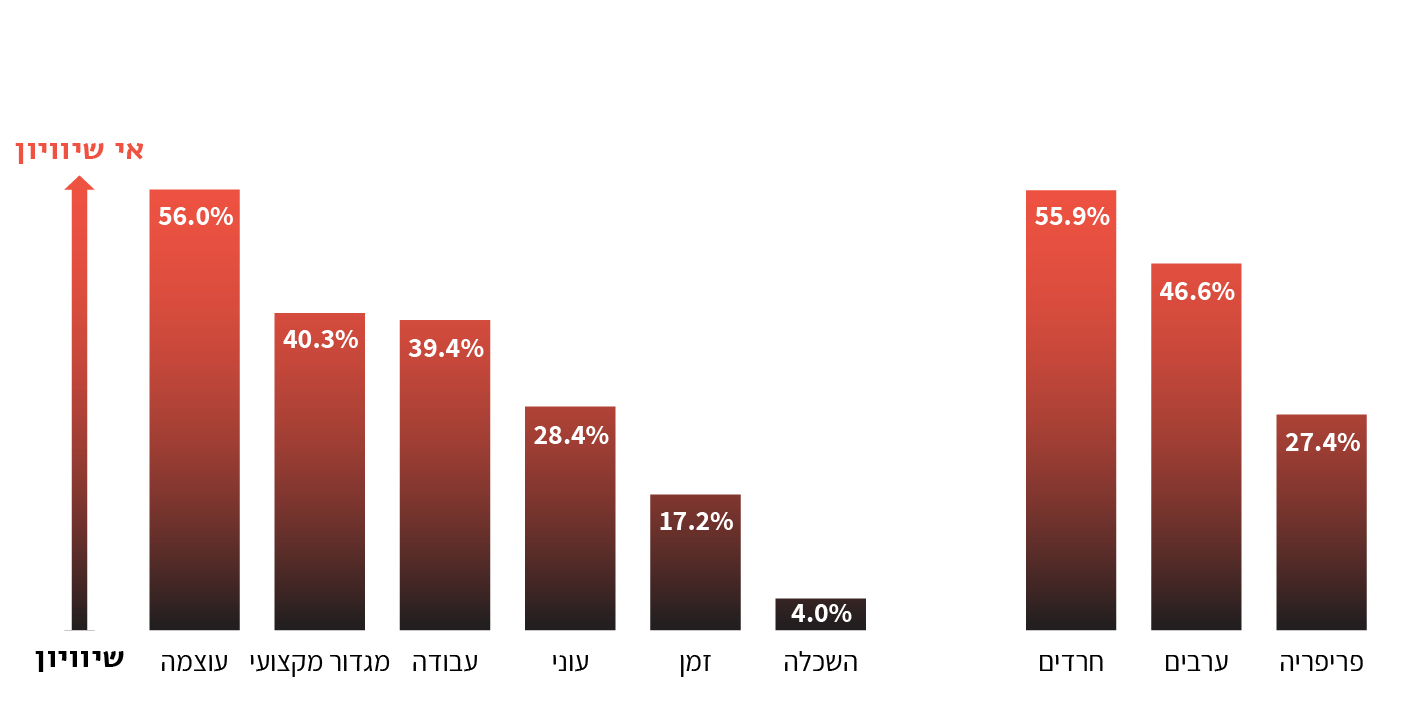
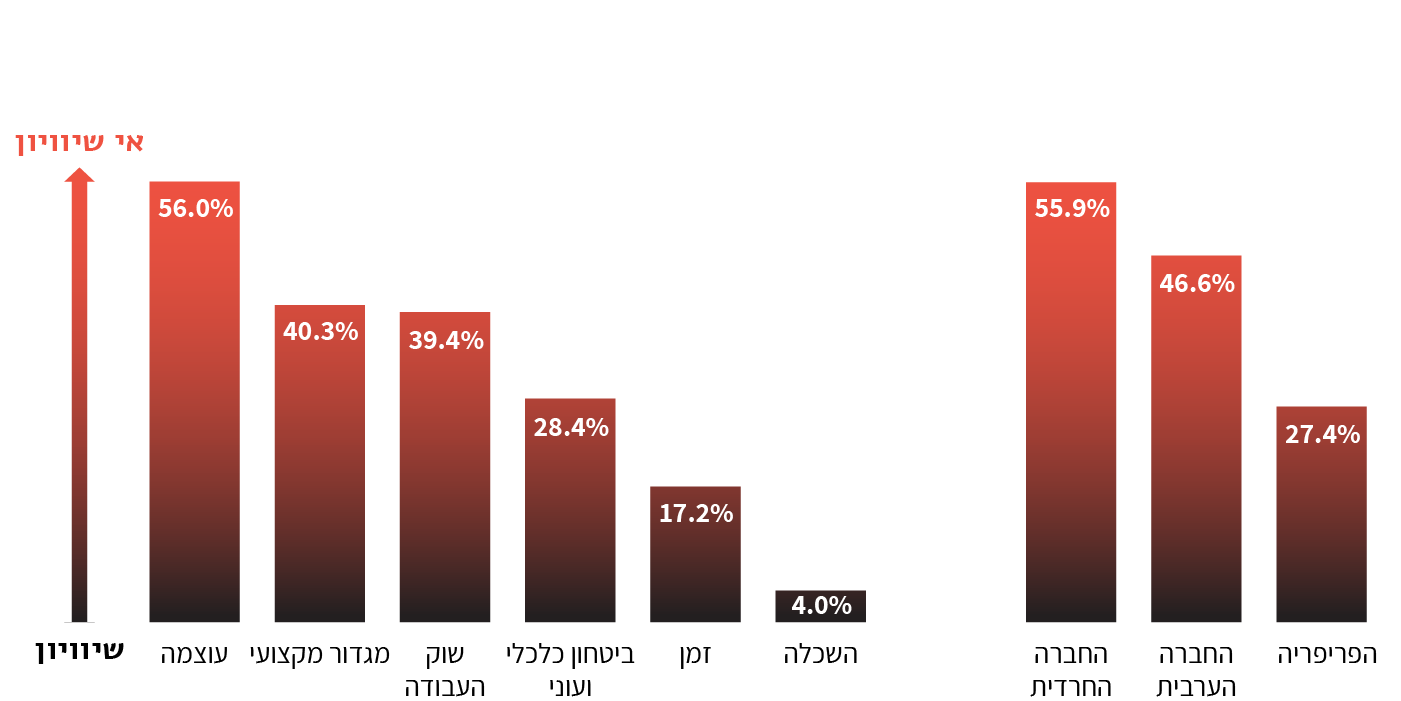
Gneder index graph fix

diff --git a/src/app/info-page-gaps/info-page-gaps.component.html b/src/app/info-page-gaps/info-page-gaps.component.html
@@ -18,7 +18,7 @@
   <p i18n>
 שני התרשימים להלן מציגים שני חישובים שונים של עומק האי-שוויון: בתרשים הראשון מוצג עומק האי-שוויון של הממדים השונים. ניתן לראות שבממדי העוצמה והמגדור המקצועי האי-שוויון בין נשים לגברים הוא העמוק ביותר, ובממדי ההשכלה והזמן אי השוויון הוא הנמוך ביותר.
   </p>
-  <img src='assets/gender_index_graphs/methodology/פערים בחברה@2x.png'/>
+  <img src='assets/gender_index_graphs/methodology/פערים בחברה_1@2x.png'/>
   <p i18n>
 בתרשים השני מוצגים שינויים לאורך זמן בעומק האי-שוויון, בכלל האינדיקטורים הנכללים באומדן. כפי שמראה התרשים, עומק האי שוויון ב-2004, שנת תחילת המדידה, היה 75%. האי-שוויון העמוק ביותר נמדד ב-2007 (79%), ובשנים שלאחר מכן חלה ירידה הדרגתית עד ל-68% בשנת 2010. בשנת 2011 שוב העמיק האי-שוויון עד לשיעור של 75%. בשנת 2012 חל שיפור ומאז עומק האי-שוויון נע בין 65% ל-66%. בשנת 2016 חל שיפור נוסף ועומק האי-שוויון ירד ל-60%. הירידה שחלה בעומק האי-שוויון בשנים האחרונות נובעת בעיקר משינויים בשלושה ממדים: ההשכלה, העוני והעוצמה (בעיקר עוצמה פוליטית). בחברה הערבית (שבה נמדד עומק האי-שוויון בנפרד), שבה האי-שוויון הוא הגבוה ביותר, ניכרת מגמה של צמצום פערים, אם כי הפערים המגדריים בה גבוהים הרבה יותר מהפערים בכלל החברה הישראלית. פערי המגדר בממד העוני הצטמצמו בעקבות הרעה במצבם הכללי של העשירונים הבינוניים והנמוכים באוכלוסייה. צמצום הפערים המגדריים בממד העוצמה הפוליטית נובע מהגידול במספר הנשים שנבחרו כחברות כנסת בבחירות שנערכו ב-2013 או שנכנסו לכנסת לאחר מכן (עד לבחירות לכנסת ה-21). לסיכום אפשר לומר כי על פי מדד המגדר, האי-שוויון בין גברים לנשים בישראל נותר ללא שינוי משמעותי בשנים האחרונות. 
   </p>

diff --git a/src/app/header/header.component.html b/src/app/header/header.component.html
@@ -1,6 +1,6 @@
 <div class='header' (click)='langSelected = menuSelected = false'>
   <div class='container'>
-    <img class='logo' src='assets/sticky-logo.svg' (click)='router.navigateByUrl("/")'>
+    <img class='logo' src='assets/sticky-color-logo.svg' (click)='router.navigateByUrl("/")'>
     <span class='section-link purple' [class.active]='headerState.section === "publications"' i18n [routerLink]='"/publications"'>מאגר המידע הכללי</span>
     <span class='section-link green'  [class.active]='headerState.section === "stats"' i18n [routerLink]='"/stats"'>סטטיסטיקה מגדרית</span>
     <span class='section-link orange' [class.active]='headerState.section === "orgs"' i18n [routerLink]='"/organisations"'>ארגונים ופעילות בתחום המגדר</span>

diff --git a/src/app/header/header.component.less b/src/app/header/header.component.less
@@ -29,6 +29,11 @@
             .logo {
                 cursor: pointer;
                 height: 20px;
+                opacity: 0.4;
+                transition: opacity 0.5s;
+                &:hover {
+                    opacity: 1;
+                }
                 // border-left: 2px solid @primaryPurple;
             }
 
